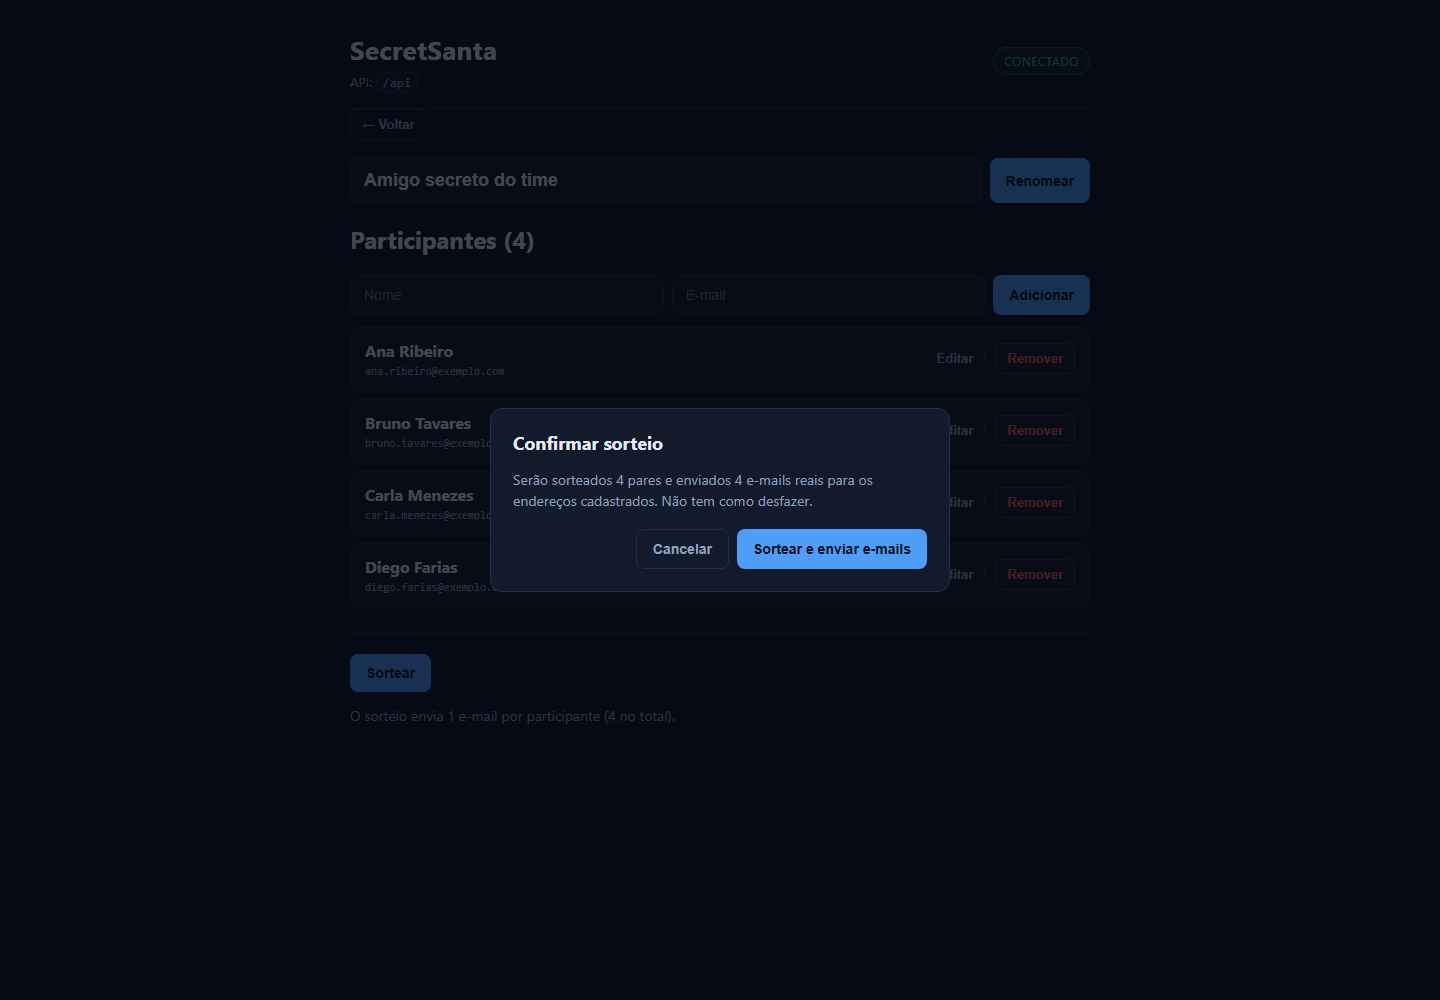
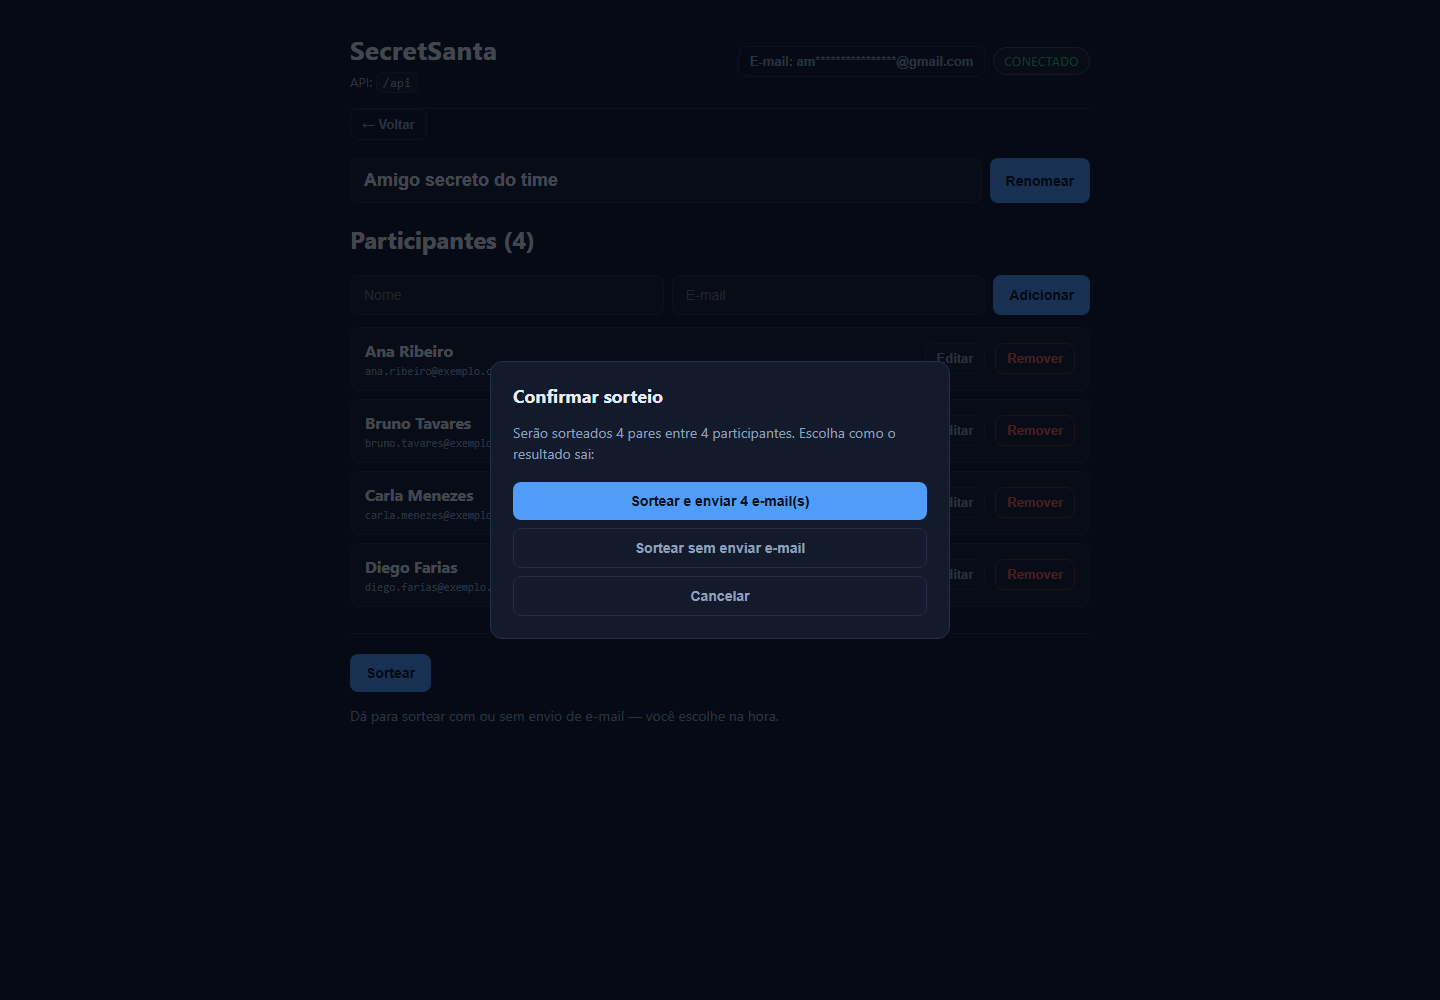
docs: telas atualizadas com as features novas
- screenshots regerados: confirmacao com as duas opcoes de sorteio, resultado com os pares
  ocultos, pares revelados e a tela de configuracao de e-mail com a ajuda
- removida a imagem antiga do resultado (os pares agora comecam ocultos)
- README: descricao das telas e da escolha entre enviar ou nao

Material gerado com dados ficticios, banco descartavel e MAILER_TRANSPORT=json: nenhum
e-mail real foi disparado para produzir as imagens.

diff --git a/README.md b/README.md
@@ -10,12 +10,19 @@
 |---|---|
 | ![Lista de grupos](docs/screenshots/01-lista-grupos.png) | ![Grupo e participantes](docs/screenshots/02-grupo-participantes.png) |
 
-| Confirmação antes de sortear | Resultado do sorteio |
+| Confirmar o sorteio | Resultado com os pares ocultos |
 |---|---|
-| ![Confirmação do sorteio](docs/screenshots/03-confirmacao-sorteio.png) | ![Resultado do sorteio](docs/screenshots/04-resultado-sorteio.png) |
+| ![Confirmação do sorteio](docs/screenshots/03-confirmacao-sorteio.png) | ![Resultado com pares ocultos](docs/screenshots/04-resultado-oculto.png) |
 
-As imagens são geradas com dados fictícios, em banco descartável e com o envio de e-mail desligado
-(`MAILER_TRANSPORT=json`) — produzir o material não dispara e-mail para ninguém.
+| Pares revelados | Configuração do envio de e-mail |
+|---|---|
+| ![Pares revelados](docs/screenshots/05-resultado-revelado.png) | ![Configuração do e-mail](docs/screenshots/06-configuracao-email.png) |
+
+No sorteio você escolhe entre **enviar os e-mails** ou **só ver os pares**; e os pares sempre saem
+ocultos, revelando um a um (ou todos de uma vez) — dá para mostrar a tela sem vazar o resultado.
+
+As imagens são geradas com dados fictícios, em banco descartável e com o envio desligado
+(`MAILER_TRANSPORT=json`): produzir o material não dispara e-mail para ninguém.
 
 ## 🎯 O problema
 
